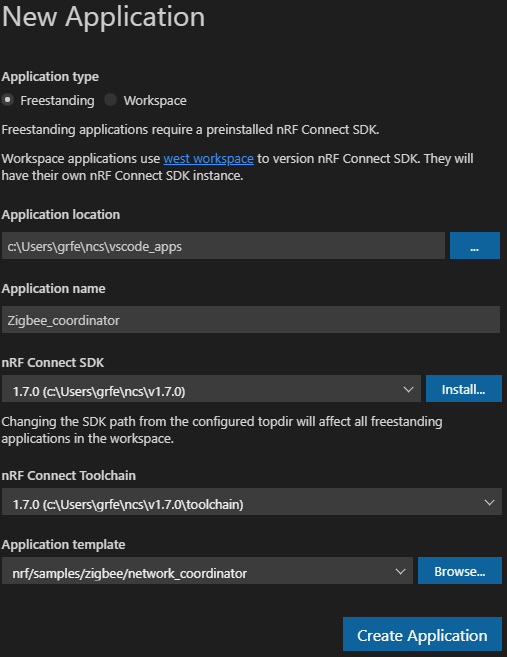
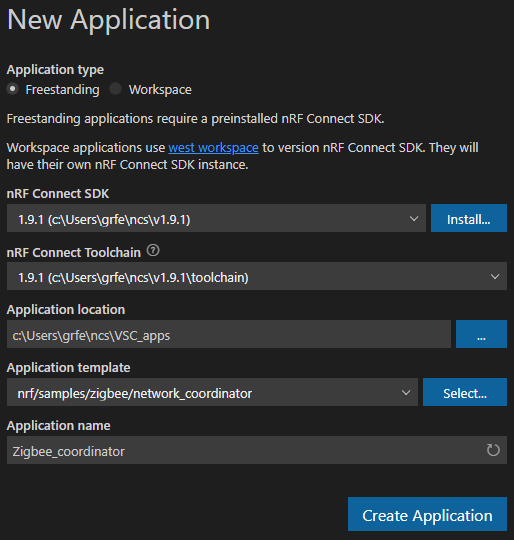
doc: zigbee: update VSC screenshots in ZQSG
Added new screenshots to Zigbee QSG.
Removed unneeded screenshots.
NCSDK-15243.

diff --git a/doc/nrf/ug_zigbee_qsg.rst b/doc/nrf/ug_zigbee_qsg.rst
@@ -145,20 +145,17 @@ To program the samples, complete the following steps:
 #. Add the network coordinator application:
 
    a. In the Welcome panel or on the Welcome page, click :guilabel:`Create a new application from sample`.
-
-      .. figure:: images/zigbee_qsg_vsc_welcome_section.png
-         :alt: nRF Connect for Visual Studio Code - Welcome panel
-
    #. Select the :guilabel:`Freestanding` application type, which uses the preinstalled version of the |NCS|.
-   #. Enter a custom application location and name.
-      For example, ``Zigbee_coordinator``.
    #. Keep the default settings for :guilabel:`nRF Connect SDK` and :guilabel:`nRF Connect Toolchain`.
+   #. Enter a custom application location.
    #. In the :guilabel:`Application template`, click :guilabel:`Browse` and search for the Zigbee network coordinator sample.
       The path for the application template is :file:`nrf/samples/zigbee/network_coordinator`.
-   #. Click :guilabel:`Select` and then click :guilabel:`Create Application`.
+   #. Enter a custom application name.
+      For example, ``Zigbee_coordinator``.
+   #. Click :guilabel:`Create Application`.
 
       .. figure:: images/zigbee_qsg_vsc_create_application_section.png
-         :alt: nRF Connect for Visual Studio Code - Create Application panel
+         :alt: nRF Connect for Visual Studio Code - Create a new application page
 
    #. If needed, click :guilabel:`Yes` when prompted if you trust the authors of the files.
 
@@ -168,16 +165,9 @@ To program the samples, complete the following steps:
    #. In the configuration options on the :guilabel:`Add Build Configuration` screen, select the board onto which you want to program the sample.
       See the `Requirements`_ section for the list of available build target names.
       For the purpose of this quick start guide, leave the default values for other options.
-
-      .. figure:: images/zigbee_qsg_vsc_generate_config_section.png
-         :alt: nRF Connect for Visual Studio Code - Generate Configuration panel
-
    #. Click :guilabel:`Build Configuration`.
       When the process starts, a Zigbee Coordinator panel appears under the Applications panel.
-      The generation process takes some time and you can observe its progress in the :guilabel:`nRF Connect` terminal.
-
-      .. figure:: images/zigbee_qsg_vsc_generating_config_prompt_full.png
-         :alt: nRF Connect for Visual Studio Code - building process in progress
+      The generation process takes some time and you can observe its progress in the :guilabel:`nRF Terminal`.
 
 #. Program the application to the board:
 
